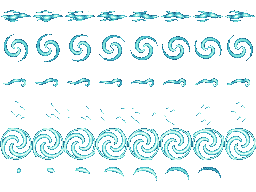
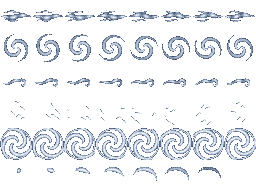
Burning foes smoke like the hull does at low health, in fire orange; Vayu's wind is grey with a hint of blue
- A burning foe puffs the same smoke sprites as a low-hull ship (Effect.smoke), rising, drawn as orange light (Effect.fire) rather than grey; the flame sprite on foes is gone
- Wind sprites, the funnel and Vayu's mandala are re-coloured: grey with a hint of blue (was teal)

diff --git a/lwjgl3/src/test/java/vajra/screen/FlowShotTest.java b/lwjgl3/src/test/java/vajra/screen/FlowShotTest.java
@@ -62,6 +62,7 @@ class FlowShotTest {
             public void create() {
                 try {
                     FlowFx fx = new FlowFx();
+                    FxImages fxi = new FxImages();
                     SpriteBatch batch = new SpriteBatch();
                     ShapeRenderer sr = new ShapeRenderer(30000);
                     FrameBuffer fbo = new FrameBuffer(Pixmap.Format.RGBA8888, W, H, false);
@@ -72,7 +73,15 @@ class FlowShotTest {
                         Pixmap sheet = new Pixmap(W * 2, H * 2, Pixmap.Format.RGBA8888);
                         float t = 0;
                         for (int m = 0; m < 4; m++) {
-                            while (t < at[m]) { w.updateAstra(1 / 60f); w.clock += 1 / 60f; t += 1 / 60f; }
+                            while (t < at[m]) {
+                                w.updateAstra(1 / 60f);
+                                w.clock += 1 / 60f;
+                                t += 1 / 60f;
+                                for (int q = w.effects.size() - 1; q >= 0; q--) {      // the world's own effects age as they do in play
+                                    w.effects.get(q).update(1 / 60f);
+                                    if (w.effects.get(q).done()) w.effects.remove(q);
+                                }
+                            }
                             OrthographicCamera cam = new OrthographicCamera(W, H);
                             cam.position.set(w.ship.x, w.ship.y, 0);
                             cam.update();
@@ -90,6 +99,8 @@ class FlowShotTest {
                             batch.setProjectionMatrix(cam.combined);
                             batch.begin();
                             fx.draw(batch, w, w.ship.x - W / 2f, w.ship.y - H / 2f, W, H);
+                            for (vajra.world.Effect ef : w.effects) if (ef.type == vajra.world.Effect.SMOKE) fxi.draw(batch, ef);   // a burning foe's smoke
+                            batch.setColor(1f, 1f, 1f, 1f);
                             batch.end();
                             Pixmap pm = Pixmap.createFromFrameBuffer(0, 0, W, H);
                             fbo.end();

diff --git a/core/src/main/java/vajra/screen/FlowFx.java b/core/src/main/java/vajra/screen/FlowFx.java
@@ -4,7 +4,6 @@ import com.badlogic.gdx.graphics.GL20;
 import com.badlogic.gdx.graphics.Texture;
 import com.badlogic.gdx.graphics.g2d.SpriteBatch;
 import com.badlogic.gdx.graphics.g2d.TextureRegion;
-import vajra.enemy.Enemy;
 import vajra.world.AstraFlow;
 import vajra.world.World;
 
@@ -36,11 +35,7 @@ final class FlowFx {
 
     void draw(SpriteBatch b, World w, float l, float bt, float vw, float vh) {
         AstraFlow f = w.flow;
-        boolean any = f.active() || !f.scorch.isEmpty();
-        if (!any) {
-            for (int i = 0; i < w.enemies.size(); i++) if (w.enemies.get(i).burnT > 0f) { any = true; break; }
-            if (!any) return;
-        }
+        if (!f.active() && f.scorch.isEmpty()) return;                       // (a burning foe smokes through the ordinary effects: AstraFlow.tickBurn)
         float time = w.time();
         b.setBlendFunction(GL20.GL_SRC_ALPHA, GL20.GL_ONE);
         for (float[] s : f.scorch) {                                       // the ground the fire has crossed
@@ -70,11 +65,6 @@ final class FlowFx {
         }
         for (AstraFlow.Blade bl : f.blades)                                 // a crescent of cutting wind where a foe was cut
             sprite(b, WIND, 5, Math.min(7, (int) (bl.t / 0.3f * 8f)), bl.x, bl.y, 120f, (float) Math.toDegrees(bl.ang), 1f);
-        for (int i = 0; i < w.enemies.size(); i++) {                        // the flame riding every burning foe
-            Enemy e = w.enemies.get(i);
-            if (e.burnT <= 0f || e.dead || e.x < l - 60 || e.x > l + vw + 60 || e.y < bt - 60 || e.y > bt + vh + 60) continue;
-            sprite(b, AGNI, 3, (int) (time * 12f) + i * 3, e.x, e.y + e.h * 0.35f + 16f, 62f, 0f, Math.min(1f, e.burnT * 2f));
-        }
         b.setColor(1f, 1f, 1f, 1f);
         b.setBlendFunction(GL20.GL_SRC_ALPHA, GL20.GL_ONE_MINUS_SRC_ALPHA);
     }

diff --git a/core/src/main/java/vajra/screen/AstraFx.java b/core/src/main/java/vajra/screen/AstraFx.java
@@ -188,22 +188,22 @@ final class AstraFx {
                 float u = i / 40f, r = R * (0.95f - 0.83f * u), th = -f.t * 2.4f + arm * MathUtils.PI2 / 3f + u * 3.4f;
                 float x = cx + r * MathUtils.cos(th), y = cy + r * MathUtils.sin(th), wd = (3f + 9f * (float) Math.sin(Math.PI * u)) * sc;
                 if (i > 0) {
-                    s.setColor(0.35f, 0.9f, 0.85f, 0.10f * a);
+                    s.setColor(0.58f, 0.66f, 0.78f, 0.10f * a);
                     s.rectLine(px, py, x, y, wd * 2.4f);
-                    s.setColor(0.8f, 1f, 1f, 0.30f * a * (0.5f + 0.5f * u));
+                    s.setColor(0.86f, 0.90f, 0.97f, 0.30f * a * (0.5f + 0.5f * u));
                     s.rectLine(px, py, x, y, Math.max(1f, wd * 0.45f));
                 }
                 px = x;
                 py = y;
             }
         }
-        s.setColor(0.6f, 1f, 0.95f, 0.18f * a);
+        s.setColor(0.70f, 0.78f, 0.88f, 0.18f * a);
         ring(s, cx, cy, R * 0.97f, 72, 2f);
         ring(s, cx, cy, R * 0.12f, 28, 2f);
         if (f.t >= vajra.world.AstraFlow.T_EYE)                            // the throw: rings of wind running outward
             for (int i = 0; i < 3; i++) {
                 float ph = ((f.t - vajra.world.AstraFlow.T_EYE) * 1.4f + i / 3f) % 1f;
-                s.setColor(0.8f, 1f, 1f, 0.5f * (1f - ph) * a);
+                s.setColor(0.84f, 0.89f, 0.96f, 0.5f * (1f - ph) * a);
                 ring(s, cx, cy, R * (0.15f + 0.9f * ph), 72, 3f);
             }
     }

diff --git a/core/src/main/java/vajra/screen/Mandala.java b/core/src/main/java/vajra/screen/Mandala.java
@@ -20,8 +20,8 @@ final class Mandala {
     private static final float TAU = MathUtils.PI2;
 
     // palettes: primary, accent
-    private static final float[][] PRIMARY = {{0.74f, 0.55f, 1f}, {0.45f, 0.95f, 0.88f}, {1f, 0.34f, 0.12f}, {0.30f, 0.65f, 1f}, {0.88f, 0.64f, 0.22f}, {1f, 0.84f, 0.3f}, {0.86f, 0.88f, 1f}};
-    private static final float[][] ACCENT = {{1f, 0.86f, 0.5f}, {0.9f, 1f, 1f}, {1f, 0.86f, 0.5f}, {0.7f, 0.95f, 1f}, {1f, 0.9f, 0.55f}, {1f, 1f, 1f}, {1f, 0.8f, 0.3f}};
+    private static final float[][] PRIMARY = {{0.74f, 0.55f, 1f}, {0.62f, 0.72f, 0.86f}, {1f, 0.34f, 0.12f}, {0.30f, 0.65f, 1f}, {0.88f, 0.64f, 0.22f}, {1f, 0.84f, 0.3f}, {0.86f, 0.88f, 1f}};
+    private static final float[][] ACCENT = {{1f, 0.86f, 0.5f}, {0.88f, 0.92f, 0.98f}, {1f, 0.86f, 0.5f}, {0.7f, 0.95f, 1f}, {1f, 0.9f, 0.55f}, {1f, 1f, 1f}, {1f, 0.8f, 0.3f}};
     private static final float[] EMBER = {1f, 0.58f, 0.18f}, WHITE = {1f, 1f, 1f}, RED = {1f, 0.2f, 0.2f};
 
     /** THE LIGHT OF THE CHARGE, 0..1 (set at the top of every {@link #draw}): the first half of the invocation is plain lines and shapes, building anticipation;

diff --git a/core/src/main/java/vajra/world/AstraFlow.java b/core/src/main/java/vajra/world/AstraFlow.java
@@ -264,6 +264,15 @@ public final class AstraFlow {
             if (e.burnT <= 0f || e.dead) { e.burnT = 0f; continue; }
             any = true;
             e.burnT -= dt;
+            if ((e.burnPuffT -= dt) <= 0f) {                               // it smokes as the hull does when it is low: the same puffs, but fire orange, not grey
+                e.burnPuffT = 0.09f;
+                float jitter = (w.fxRng.nextFloat() - 0.5f) * e.w * 0.5f;
+                Effect puff = Effect.smoke(e.x + jitter, e.y + e.h * 0.15f, (w.fxRng.nextFloat() - 0.5f) * 30f, 26f + 22f * w.fxRng.nextFloat(),
+                        1f, 0.50f + 0.22f * w.fxRng.nextFloat(), 0.10f);
+                puff.fire = true;
+                puff.radius = 50f;
+                w.addEffect(puff);
+            }
             boolean killed = e.hurtPiercing(BURN_DPS * burnDm * dt, w, e.burnOwner);
             if (killed || e.dead) {
                 e.burnT = 0f;

diff --git a/core/src/main/java/vajra/screen/FxImages.java b/core/src/main/java/vajra/screen/FxImages.java
@@ -136,8 +136,10 @@ public class FxImages {
             if (smoke == null) return;
             int f = Math.min(smoke.length - 1, (int) (e.age / e.life * smoke.length));
             float s = e.radius * (1 - 0.6f * e.age / e.life); // shrinks as it drifts away
-            batch.setColor(e.r, e.g, e.b, e.alpha());
+            batch.setColor(e.r, e.g, e.b, e.alpha() * (e.fire ? 1.3f : 1f));
+            if (e.fire) batch.setBlendFunction(com.badlogic.gdx.graphics.GL20.GL_SRC_ALPHA, com.badlogic.gdx.graphics.GL20.GL_ONE);
             batch.draw(smoke[f], e.x - s / 2, e.y - s / 2, s, s);
+            if (e.fire) batch.setBlendFunction(com.badlogic.gdx.graphics.GL20.GL_SRC_ALPHA, com.badlogic.gdx.graphics.GL20.GL_ONE_MINUS_SRC_ALPHA);
         } else if (e.type == Effect.RING) {
             float d = 2 * e.radius * (e.age / e.life);
             batch.setColor(e.r, e.g, e.b, e.alpha());

diff --git a/tools/enemy_art/flowfx.py b/tools/enemy_art/flowfx.py
@@ -25,8 +25,8 @@ BAY = F.BAY
 FIRE = F.BANDS
 THRESH = F.THRESH
 
-# the wind's own six bands, brightest first (a cold, pale ramp): white, mint, aqua, teal, deep teal, shadow
-WIND = np.array([(244, 255, 255), (196, 247, 236), (124, 228, 218), (72, 188, 204), (42, 132, 164), (26, 82, 112)], dtype=np.uint8)
+# the wind's own six bands, brightest first: a grey with a hint of blue (white-grey, pale slate, slate, blue-grey, deep blue-grey, shadow)
+WIND = np.array([(240, 244, 250), (206, 216, 230), (170, 184, 204), (132, 150, 176), (94, 112, 140), (60, 74, 96)], dtype=np.uint8)
 
 
 def band(v, palette, alpha_floor=0.04, dither=0.07):

diff --git a/core/src/main/java/vajra/world/Effect.java b/core/src/main/java/vajra/world/Effect.java
@@ -7,6 +7,8 @@ package vajra.world;
 public class Effect {
     public static final int SPARK = 0, RING = 1, FLASH = 2, SMOKE = 3, SURGE = 4, DEATH = 5;
     public int type;
+    /** A smoke puff that burns: drawn as light, in its own orange, so it reads as fire and not as grey smoke (a burning foe's smoke). */
+    public boolean fire;
     public float x, y, x2, y2;
     public float vx, vy, drag; // SPARK motion: px/s and per-second exponential decay
     public float phase, wobble; // SPARK: sideways sine, amplitude px/s, dies off with age

diff --git a/core/src/main/java/vajra/enemy/Enemy.java b/core/src/main/java/vajra/enemy/Enemy.java
@@ -254,6 +254,7 @@ public class Enemy {
      *  (and whose fire it is) after Agni's flames touched it. */
     public float caught, flowVx, flowVy, burnT;
     public int burnOwner;
+    public float burnPuffT;
 
     /** Down at the floor, in the rock, or in smoke: no body in the fight. */
     public boolean submerged() { return depth > 0.4f || inRock || smoked; }
